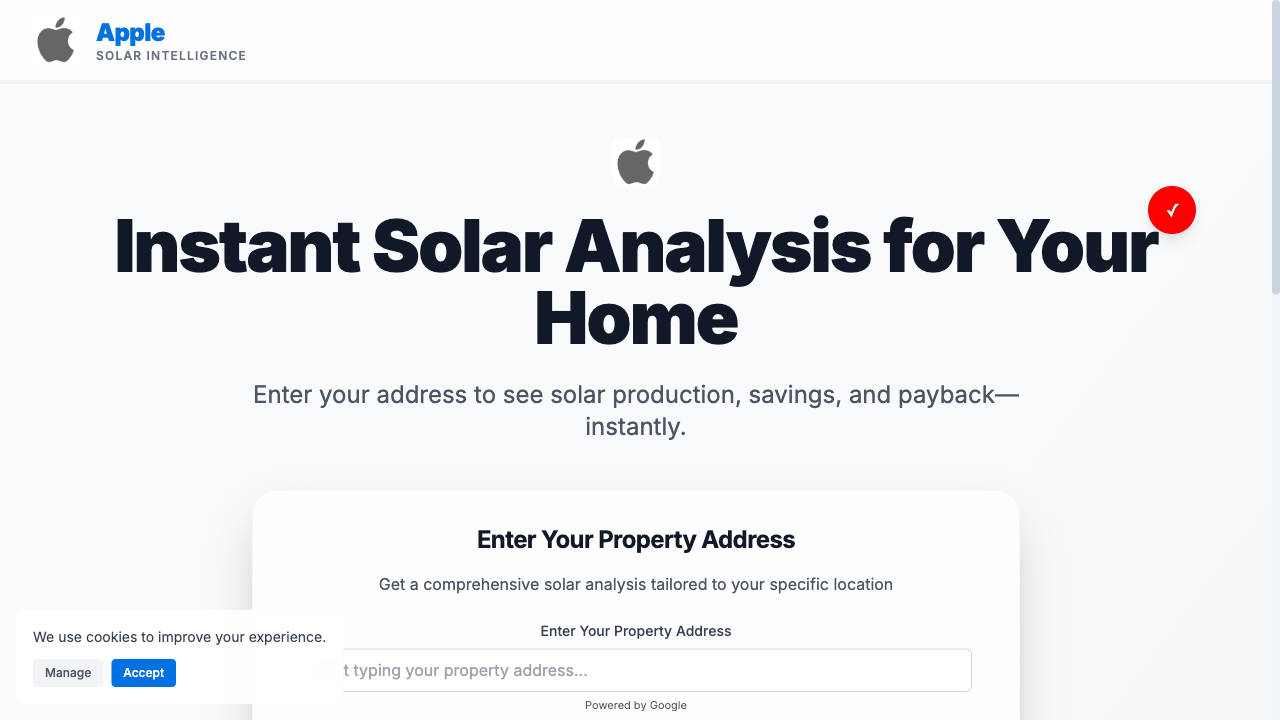
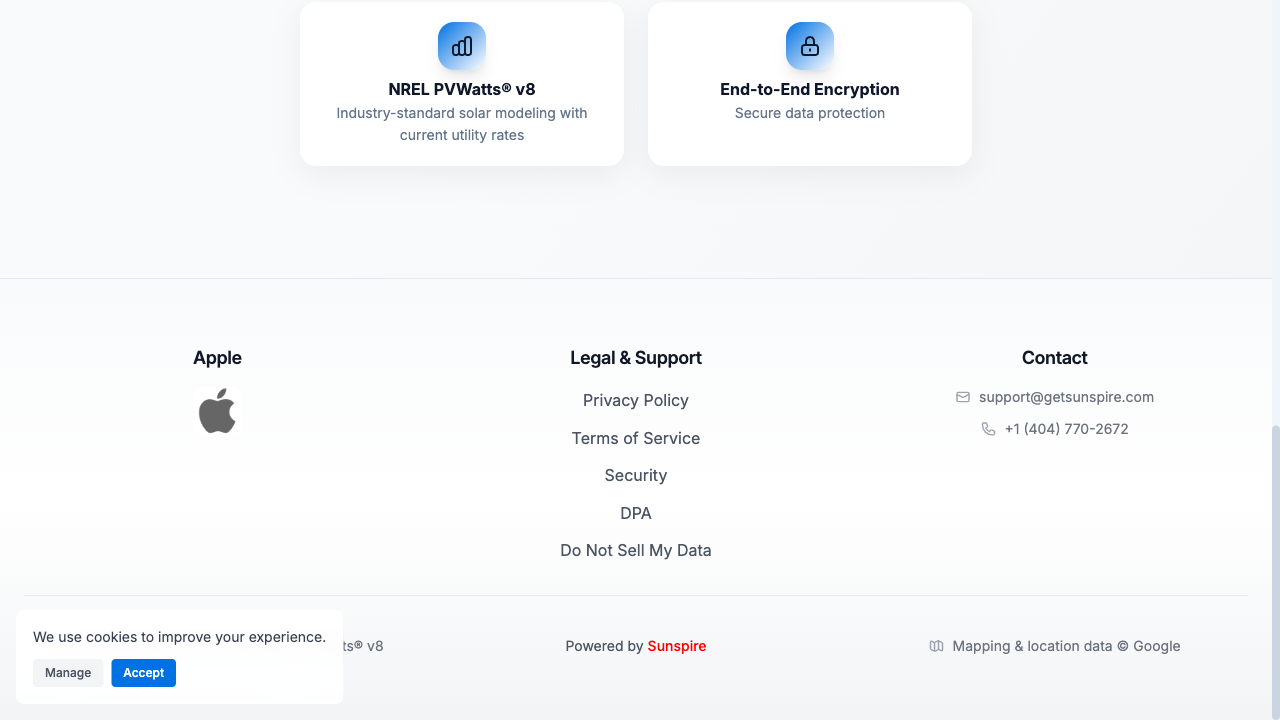
Remove hardcoded Apple blue override - respect URL brandColor parameter

diff --git a/playwright-report/index.html b/playwright-report/index.html
@@ -73,4 +73,4 @@ Error generating stack: `+u.message+`
     <div id='root'></div>
   </body>
 </html>
[2 lines of base64/hex data omitted]

diff --git a/tests/debug-color.spec.ts b/tests/debug-color.spec.ts
@@ -3,6 +3,14 @@ import { test, expect } from '@playwright/test';
 const PAID_URL = 'https://sunspire-web-app.vercel.app/paid?company=Apple&brandColor=%23FF0000&logo=https%3A%2F%2Flogo.clearbit.com%2Fapple.com';
 
 test('Debug color issue', async ({ page }) => {
+  // Capture console logs
+  const logs: string[] = [];
+  page.on('console', msg => {
+    if (msg.type() === 'log') {
+      logs.push(msg.text());
+    }
+  });
+  
   await page.goto(PAID_URL, { waitUntil: 'networkidle' });
   
   // Wait a bit for everything to load
@@ -27,13 +35,9 @@ test('Debug color issue', async ({ page }) => {
   
   console.log('URL parameters:', urlParams);
   
-  // Check if BrandProvider is running
-  const brandProviderLogs = await page.evaluate(() => {
-    // Look for console logs from BrandProvider
-    return 'BrandProvider logs would be in browser console';
-  });
-  
-  console.log('BrandProvider status:', brandProviderLogs);
+  // Print console logs
+  console.log('Console logs:');
+  logs.forEach(log => console.log('  ', log));
   
   // Take a screenshot for debugging
   await page.screenshot({ path: 'debug-color.png' });

diff --git a/hooks/useBrandColors.ts b/hooks/useBrandColors.ts
@@ -6,15 +6,22 @@ export function useBrandColors() {
   const sp = useSearchParams();
 
   useEffect(() => {
+    console.log("useBrandColors: Running with searchParams:", sp?.toString());
+    
     // Only apply brand colors if there are URL parameters
     // Don't override brand takeover colors
     const primary = sp?.get("primary"); // pass ?primary=%23FF6A00 if you want
     const brandColor = sp?.get("brandColor"); // pass ?brandColor=%23FF6A00 if you want
     const colorParam = primary || brandColor;
+    
+    console.log("useBrandColors: primary:", primary, "brandColor:", brandColor, "colorParam:", colorParam);
+    
     const a =
       colorParam && /^%23?[0-9a-fA-F]{6}$/.test(colorParam)
         ? decodeURIComponent(colorParam)
         : null;
+
+    console.log("useBrandColors: decoded color:", a);
 
     // Only set colors if there's a primary or brandColor parameter in the URL
     if (a) {

diff --git a/src/brand/BrandProvider.tsx b/src/brand/BrandProvider.tsx
@@ -42,8 +42,9 @@ export default function BrandProvider({
       forcedColor = "#CC0000";
       console.log("BrandProvider: Forcing Tesla red:", forcedColor);
     } else if (b.brand.toLowerCase() === "apple") {
-      forcedColor = "#0071E3";
-      console.log("BrandProvider: Forcing Apple blue:", forcedColor);
+      // Don't force Apple blue - respect URL parameters
+      forcedColor = b.primary;
+      console.log("BrandProvider: Using Apple primary color:", forcedColor);
     } else if (b.brand.toLowerCase() === "netflix") {
       forcedColor = "#E50914";
       console.log("BrandProvider: Forcing Netflix red:", forcedColor);
